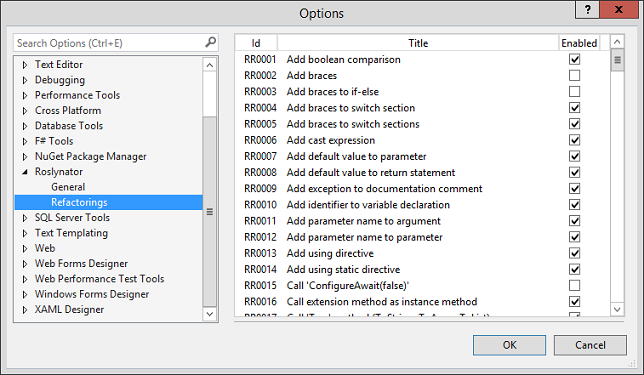
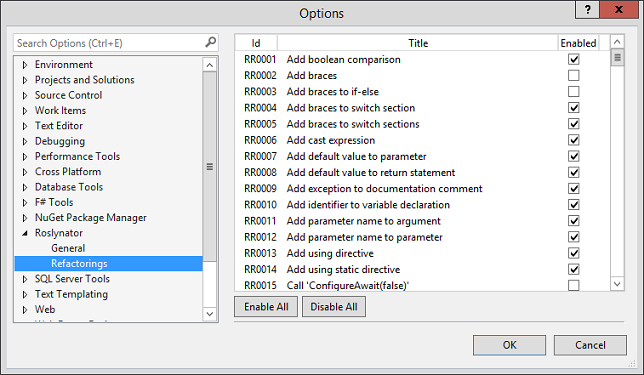
Implement new options page with WPF control (part 2).

diff --git a/source/VisualStudio.Core/RefactoringsControl.xaml b/source/VisualStudio.Core/RefactoringsControl.xaml
@@ -26,16 +26,28 @@
         <TextBlock HorizontalAlignment="Center" Text="{Binding}"/>
       </Grid>
     </DataTemplate>
+    <Style TargetType="Button">
+      <Setter Property="MinWidth" Value="75"/>
+      <Setter Property="MinHeight" Value="25"/>
+      <Setter Property="Margin" Value="0,5,5,0"/>
+    </Style>
   </UserControl.Resources>
-  <Grid>
-    <ListView Name="lsvRefactorings" 
+  <DockPanel Focusable="False" LastChildFill="True">
+    <WrapPanel DockPanel.Dock="Bottom" Orientation="Horizontal" HorizontalAlignment="Left">
+      <Button Content="Enable All" Click="EnableAllButton_Click" />
+      <Button Content="Disable All" Click="DisableAllButton_Click" />
+    </WrapPanel>
+    <ListView Grid.Row="0" Grid.Column="0"
+              ScrollViewer.HorizontalScrollBarVisibility="Auto"
+              ScrollViewer.VerticalScrollBarVisibility="Auto"
+              Name="lsvRefactorings" 
               ItemsSource="{Binding Refactorings}" 
               SelectionMode="Single"
               GridViewColumnHeader.Click="GridViewColumnHeader_Click">
       <ListView.View>
         <GridView>
           <GridViewColumn Header="Id" DisplayMemberBinding="{Binding Path=Id}"></GridViewColumn>
-          <GridViewColumn Header="Title" DisplayMemberBinding="{Binding Path=Title}"></GridViewColumn>
+          <GridViewColumn Header="Title" DisplayMemberBinding="{Binding Path=Title}" Width="300"></GridViewColumn>
           <GridViewColumn Header="Enabled">
             <GridViewColumn.CellTemplate>
               <DataTemplate>
@@ -46,5 +58,5 @@
         </GridView>
       </ListView.View>
     </ListView>
-  </Grid>
+  </DockPanel>
 </UserControl>

diff --git a/source/VisualStudio.Core/RefactoringsOptionsPage.Generated.cs b/source/VisualStudio.Core/RefactoringsOptionsPage.Generated.cs
@@ -13,6 +13,183 @@ namespace Roslynator.VisualStudio
     {
         public RefactoringsOptionsPage()
         {
+            AddBooleanComparison = true;
+            AddBraces = true;
+            AddBracesToIfElse = true;
+            AddBracesToSwitchSection = true;
+            AddBracesToSwitchSections = true;
+            AddCastExpression = true;
+            AddDefaultValueToParameter = true;
+            AddDefaultValueToReturnStatement = true;
+            AddExceptionToDocumentationComment = true;
+            AddIdentifierToVariableDeclaration = true;
+            AddParameterNameToArgument = true;
+            AddParameterNameToParameter = true;
+            AddUsingDirective = true;
+            AddUsingStaticDirective = true;
+            CallConfigureAwait = true;
+            CallExtensionMethodAsInstanceMethod = true;
+            CallToMethod = true;
+            ChangeExplicitTypeToVar = true;
+            ChangeMemberTypeAccordingToReturnExpression = true;
+            ChangeMemberTypeAccordingToYieldReturnExpression = true;
+            ChangeMethodReturnTypeToVoid = true;
+            ChangeTypeAccordingToExpression = true;
+            ChangeVarToExplicitType = true;
+            CheckExpressionForNull = true;
+            CheckParameterForNull = true;
+            CollapseToInitializer = true;
+            CommentOutMember = true;
+            CommentOutStatement = true;
+            CopyDocumentationCommentFromBaseMember = true;
+            DuplicateArgument = true;
+            DuplicateMember = true;
+            DuplicateParameter = true;
+            DuplicateStatement = true;
+            ExpandAssignmentExpression = true;
+            ExpandCoalesceExpression = true;
+            ExpandEvent = true;
+            ExpandExpressionBody = true;
+            ExpandInitializer = true;
+            ExpandLambdaExpressionBody = true;
+            ExpandProperty = true;
+            ExpandPropertyAndAddBackingField = true;
+            ExtractDeclarationFromUsingStatement = true;
+            ExtractExpressionFromCondition = true;
+            ExtractGenericType = true;
+            ExtractStatement = true;
+            ExtractTypeDeclarationToNewFile = true;
+            FormatAccessorBraces = true;
+            FormatArgumentList = true;
+            FormatBinaryExpression = true;
+            FormatConditionalExpression = true;
+            FormatExpressionChain = true;
+            FormatInitializer = true;
+            FormatParameterList = true;
+            GenerateBaseConstructors = true;
+            GenerateCombinedEnumMember = true;
+            GenerateEnumMember = true;
+            GenerateEnumValues = true;
+            GenerateEventInvokingMethod = true;
+            GenerateSwitchSections = true;
+            InitializeLocalWithDefaultValue = true;
+            InlineAliasExpression = true;
+            InlineMethod = true;
+            InsertStringInterpolation = true;
+            IntroduceAndInitializeField = true;
+            IntroduceAndInitializeProperty = true;
+            IntroduceConstructor = false;
+            IntroduceFieldToLockOn = true;
+            IntroduceLocalFromStatementThatReturnsValue = true;
+            MakeMemberAbstract = true;
+            MakeMemberVirtual = true;
+            MarkContainingClassAsAbstract = true;
+            MarkMemberAsStatic = true;
+            MergeAssignmentExpressionWithReturnStatement = true;
+            MergeAttributes = true;
+            MergeIfStatements = true;
+            MergeInterpolationIntoInterpolatedString = true;
+            MergeLocalDeclarations = true;
+            MergeStringExpressions = true;
+            NegateBinaryExpression = true;
+            NegateBooleanLiteral = true;
+            NegateIsExpression = true;
+            NegateOperator = true;
+            NotifyPropertyChanged = true;
+            ParenthesizeExpression = true;
+            PromoteLocalToParameter = true;
+            RemoveAllComments = true;
+            RemoveAllCommentsExceptDocumentationComments = true;
+            RemoveAllDocumentationComments = false;
+            RemoveAllMemberDeclarations = true;
+            RemoveAllPreprocessorDirectives = true;
+            RemoveAllRegionDirectives = true;
+            RemoveAllStatements = true;
+            RemoveAllSwitchSections = true;
+            RemoveBraces = true;
+            RemoveBracesFromIfElse = true;
+            RemoveBracesFromSwitchSection = true;
+            RemoveBracesFromSwitchSections = true;
+            RemoveComment = true;
+            RemoveConditionFromLastElse = true;
+            RemoveDirectiveAndRelatedDirectives = true;
+            RemoveEmptyLines = true;
+            RemoveInterpolation = true;
+            RemoveMember = true;
+            RemoveMemberDeclarations = true;
+            RemoveParameterNameFromArgument = true;
+            RemoveParentheses = true;
+            RemovePropertyInitializer = true;
+            RemoveRegion = true;
+            RemoveStatement = true;
+            RemoveStatementsFromSwitchSections = true;
+            RenameBackingFieldAccordingToPropertyName = true;
+            RenameIdentifierAccordingToTypeName = true;
+            RenameMethodAccordingToTypeName = true;
+            RenameParameterAccordingToTypeName = true;
+            RenamePropertyAccordingToTypeName = true;
+            ReplaceAnyWithAllOrAllWithAny = true;
+            ReplaceAsWithCast = true;
+            ReplaceCastWithAs = true;
+            ReplaceConditionalExpressionWithExpression = true;
+            ReplaceConditionalExpressionWithIfElse = true;
+            ReplaceConstantWithField = true;
+            ReplaceCountWithLengthOrLengthWithCount = true;
+            ReplaceDoStatementWithWhileStatement = true;
+            ReplaceEqualsExpressionWithStringEquals = true;
+            ReplaceEqualsExpressionWithStringIsNullOrEmpty = true;
+            ReplaceEqualsExpressionWithStringIsNullOrWhiteSpace = true;
+            ReplaceExpressionWithConstantValue = true;
+            ReplaceFieldWithConstant = true;
+            ReplaceForEachWithFor = true;
+            ReplaceForWithForEach = true;
+            ReplaceForWithWhile = true;
+            ReplaceHexadecimalLiteralWithDecimalLiteral = true;
+            ReplaceIfElseWithSwitch = true;
+            ReplaceIncrementOperatorWithDecrementOperator = true;
+            ReplaceInterpolatedStringWithInterpolationExpression = true;
+            ReplaceInterpolatedStringWithStringLiteral = true;
+            ReplaceMethodGroupWithLambda = true;
+            ReplaceMethodWithProperty = false;
+            ReplaceNullLiteralExpressionWithDefaultExpression = true;
+            ReplacePrefixOperatorWithPostfixOperator = true;
+            ReplacePropertyWithMethod = true;
+            ReplaceRegularStringLiteralWithVerbatimStringLiteral = true;
+            ReplaceStatementWithIfStatement = true;
+            ReplaceStringContainsWithStringIndexOf = true;
+            ReplaceStringFormatWithInterpolatedString = true;
+            ReplaceStringLiteralWithCharacterLiteral = true;
+            ReplaceSwitchWithIfElse = true;
+            ReplaceVerbatimStringLiteralWithRegularStringLiteral = true;
+            ReplaceVerbatimStringLiteralWithRegularStringLiterals = true;
+            ReplaceWhileStatementWithDoStatement = true;
+            ReplaceWhileWithFor = true;
+            ReverseForLoop = true;
+            SimplifyIf = true;
+            SimplifyLambdaExpression = true;
+            SortMemberDeclarations = true;
+            SplitAttributes = true;
+            SplitSwitchLabels = true;
+            SplitVariableDeclaration = true;
+            SwapExpressionsInBinaryExpression = true;
+            SwapExpressionsInConditionalExpression = true;
+            SwapMemberDeclarations = true;
+            SwapStatementsInIfElse = true;
+            Uncomment = true;
+            UseBitwiseOperationInsteadOfCallingHasFlag = true;
+            UseCoalesceExpressionInsteadOfIf = true;
+            UseConditionalExpressionInsteadOfIf = true;
+            UseElementAccessInsteadOfEnumerableMethod = true;
+            UseEmptyStringLiteralInsteadOfStringEmpty = true;
+            UseExpressionBodiedMember = true;
+            UseLambdaExpressionInsteadOfAnonymousMethod = true;
+            UseStringEmptyInsteadOfEmptyStringLiteral = false;
+            WrapInCondition = true;
+            WrapInElseClause = true;
+            WrapInIfDirective = true;
+            WrapInRegion = true;
+            WrapInTryCatch = true;
+            WrapInUsingStatement = true;
             DisabledRefactorings = $"{RefactoringIdentifiers.IntroduceConstructor},{RefactoringIdentifiers.RemoveAllDocumentationComments},{RefactoringIdentifiers.ReplaceMethodWithProperty},{RefactoringIdentifiers.UseStringEmptyInsteadOfEmptyStringLiteral}";
         }
 

diff --git a/source/Tools/CodeGenerator/RefactoringsOptionsPageGenerator.cs b/source/Tools/CodeGenerator/RefactoringsOptionsPageGenerator.cs
@@ -44,17 +44,23 @@ namespace CodeGenerator
             yield return ConstructorDeclaration("RefactoringsOptionsPage")
                 .WithModifiers(Modifiers.Public())
                 .WithBody(Block(
-                    SimpleAssignmentStatement(
-                        IdentifierName("DisabledRefactorings"),
-                        ParseExpression(
-                            "$\"" +
-                            string.Join(",", refactorings
-                                .Where(f => !f.IsEnabledByDefault)
-                                .OrderBy(f => f.Identifier, InvariantComparer)
-                                .Select(f => $"{{RefactoringIdentifiers.{f.Identifier}}}")) +
-                            "\""))));
+                    refactorings
+                        .Where(f => ShouldGenerateProperty(f))
+                        .Select(f => ExpressionStatement(ParseExpression($"{f.Identifier} = {TrueOrFalseLiteralExpression(f.IsEnabledByDefault)}")))
+                        .Concat(new StatementSyntax[]
+                        {
+                            SimpleAssignmentStatement(
+                                IdentifierName("DisabledRefactorings"),
+                                ParseExpression(
+                                    "$\"" +
+                                    string.Join(",", refactorings
+                                        .Where(f => !f.IsEnabledByDefault)
+                                        .OrderBy(f => f.Identifier, InvariantComparer)
+                                        .Select(f => $"{{RefactoringIdentifiers.{f.Identifier}}}")) +
+                                    "\""))
+                        })));
 
-            yield return MethodDeclaration(VoidType(), "MigrateValuesFromIdentifierProperties")
+        yield return MethodDeclaration(VoidType(), "MigrateValuesFromIdentifierProperties")
                 .WithModifiers(Modifiers.Public())
                 .WithParameterList(ParameterList())
                 .WithBody(
@@ -112,6 +118,11 @@ namespace CodeGenerator
                            AutoGetAccessorDeclaration(),
                            AutoSetAccessorDeclaration()));
             }
+        }
+
+        private LiteralExpressionSyntax TrueOrFalseLiteralExpression(bool value)
+        {
+            return (value) ? TrueLiteralExpression() : FalseLiteralExpression();
         }
 
         private static bool ShouldGenerateProperty(RefactoringDescriptor refactoring)

diff --git a/source/VisualStudio.Core/RefactoringModel.cs b/source/VisualStudio.Core/RefactoringModel.cs
@@ -1,9 +1,13 @@
 // Copyright (c) Josef Pihrt. All rights reserved. Licensed under the Apache License, Version 2.0. See License.txt in the project root for license information.
 
+using System.ComponentModel;
+
 namespace Roslynator.VisualStudio
 {
-    public class RefactoringModel
+    public class RefactoringModel : INotifyPropertyChanged
     {
+        private bool _enabled;
+
         public RefactoringModel(string id, string title, bool enabled)
         {
             Id = id;
@@ -15,6 +19,25 @@ namespace Roslynator.VisualStudio
 
         public string Title { get; }
 
-        public bool Enabled { get; set; }
+        public bool Enabled
+        {
+            get { return _enabled; }
+
+            set
+            {
+                if (_enabled != value)
+                {
+                    _enabled = value;
+                    OnPropertyChanged(nameof(Enabled));
+                }
+            }
+        }
+
+        protected virtual void OnPropertyChanged(string propertyName)
+        {
+            PropertyChanged?.Invoke(this, new PropertyChangedEventArgs(propertyName));
+        }
+
+        public event PropertyChangedEventHandler PropertyChanged;
     }
 }

diff --git a/source/VisualStudio.Core/RefactoringsControl.xaml.cs b/source/VisualStudio.Core/RefactoringsControl.xaml.cs
@@ -83,5 +83,17 @@ namespace Roslynator.VisualStudio
             dataView.SortDescriptions.Add(sortDescription);
             dataView.Refresh();
         }
+
+        private void EnableAllButton_Click(object sender, RoutedEventArgs e)
+        {
+            foreach (RefactoringModel refactoring in Refactorings)
+                refactoring.Enabled = true;
+        }
+
+        private void DisableAllButton_Click(object sender, RoutedEventArgs e)
+        {
+            foreach (RefactoringModel refactoring in Refactorings)
+                refactoring.Enabled = false;
+        }
     }
 }
